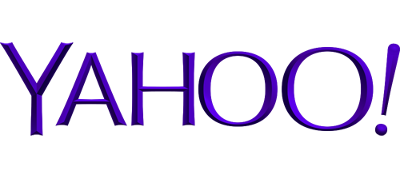
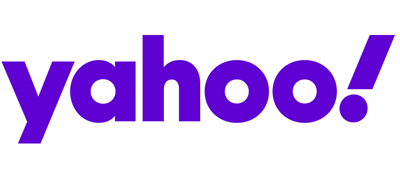
Verizon Media is now Yahoo! again

diff --git a/content/foundation/thanks.md b/content/foundation/thanks.md
@@ -19,7 +19,7 @@ read our [sponsorship page](/foundation/sponsorship.html).
       <li><a target="_blank" rel="sponsored" href="https://www.namebase.io/"><img src="images/namebase-platinum.png"/></a><p style="text-align: center; font-weight: bold;">Namebase</p></li>
       <li><a target="_blank" rel="sponsored" href="http://pineapplefund.org/"><img src="images/pineapple_fund.png"/></a><p style="text-align: center; font-weight: bold;">Pineapple Fund</p></li>
       <li><a target="_blank" rel="sponsored" href="https://tencent.com/"><img src="images/tencent.png"/></a><p style="text-align: center; font-weight: bold;">Tencent</p></li>
-      <li><a target="_blank" rel="sponsored" href="https://www.verizonmedia.com/"><img src="images/verizon_media.jpg"/></a><p style="text-align: center; font-weight: bold;">Verizon Media</p></li>
+      <li><a target="_blank" rel="sponsored" href="https://yahooinc.com/"><img src="images/yahoo-platinum.png"/></a><p style="text-align: center; font-weight: bold;">Yahoo!</p></li>
    </ul>
    </div>
 
